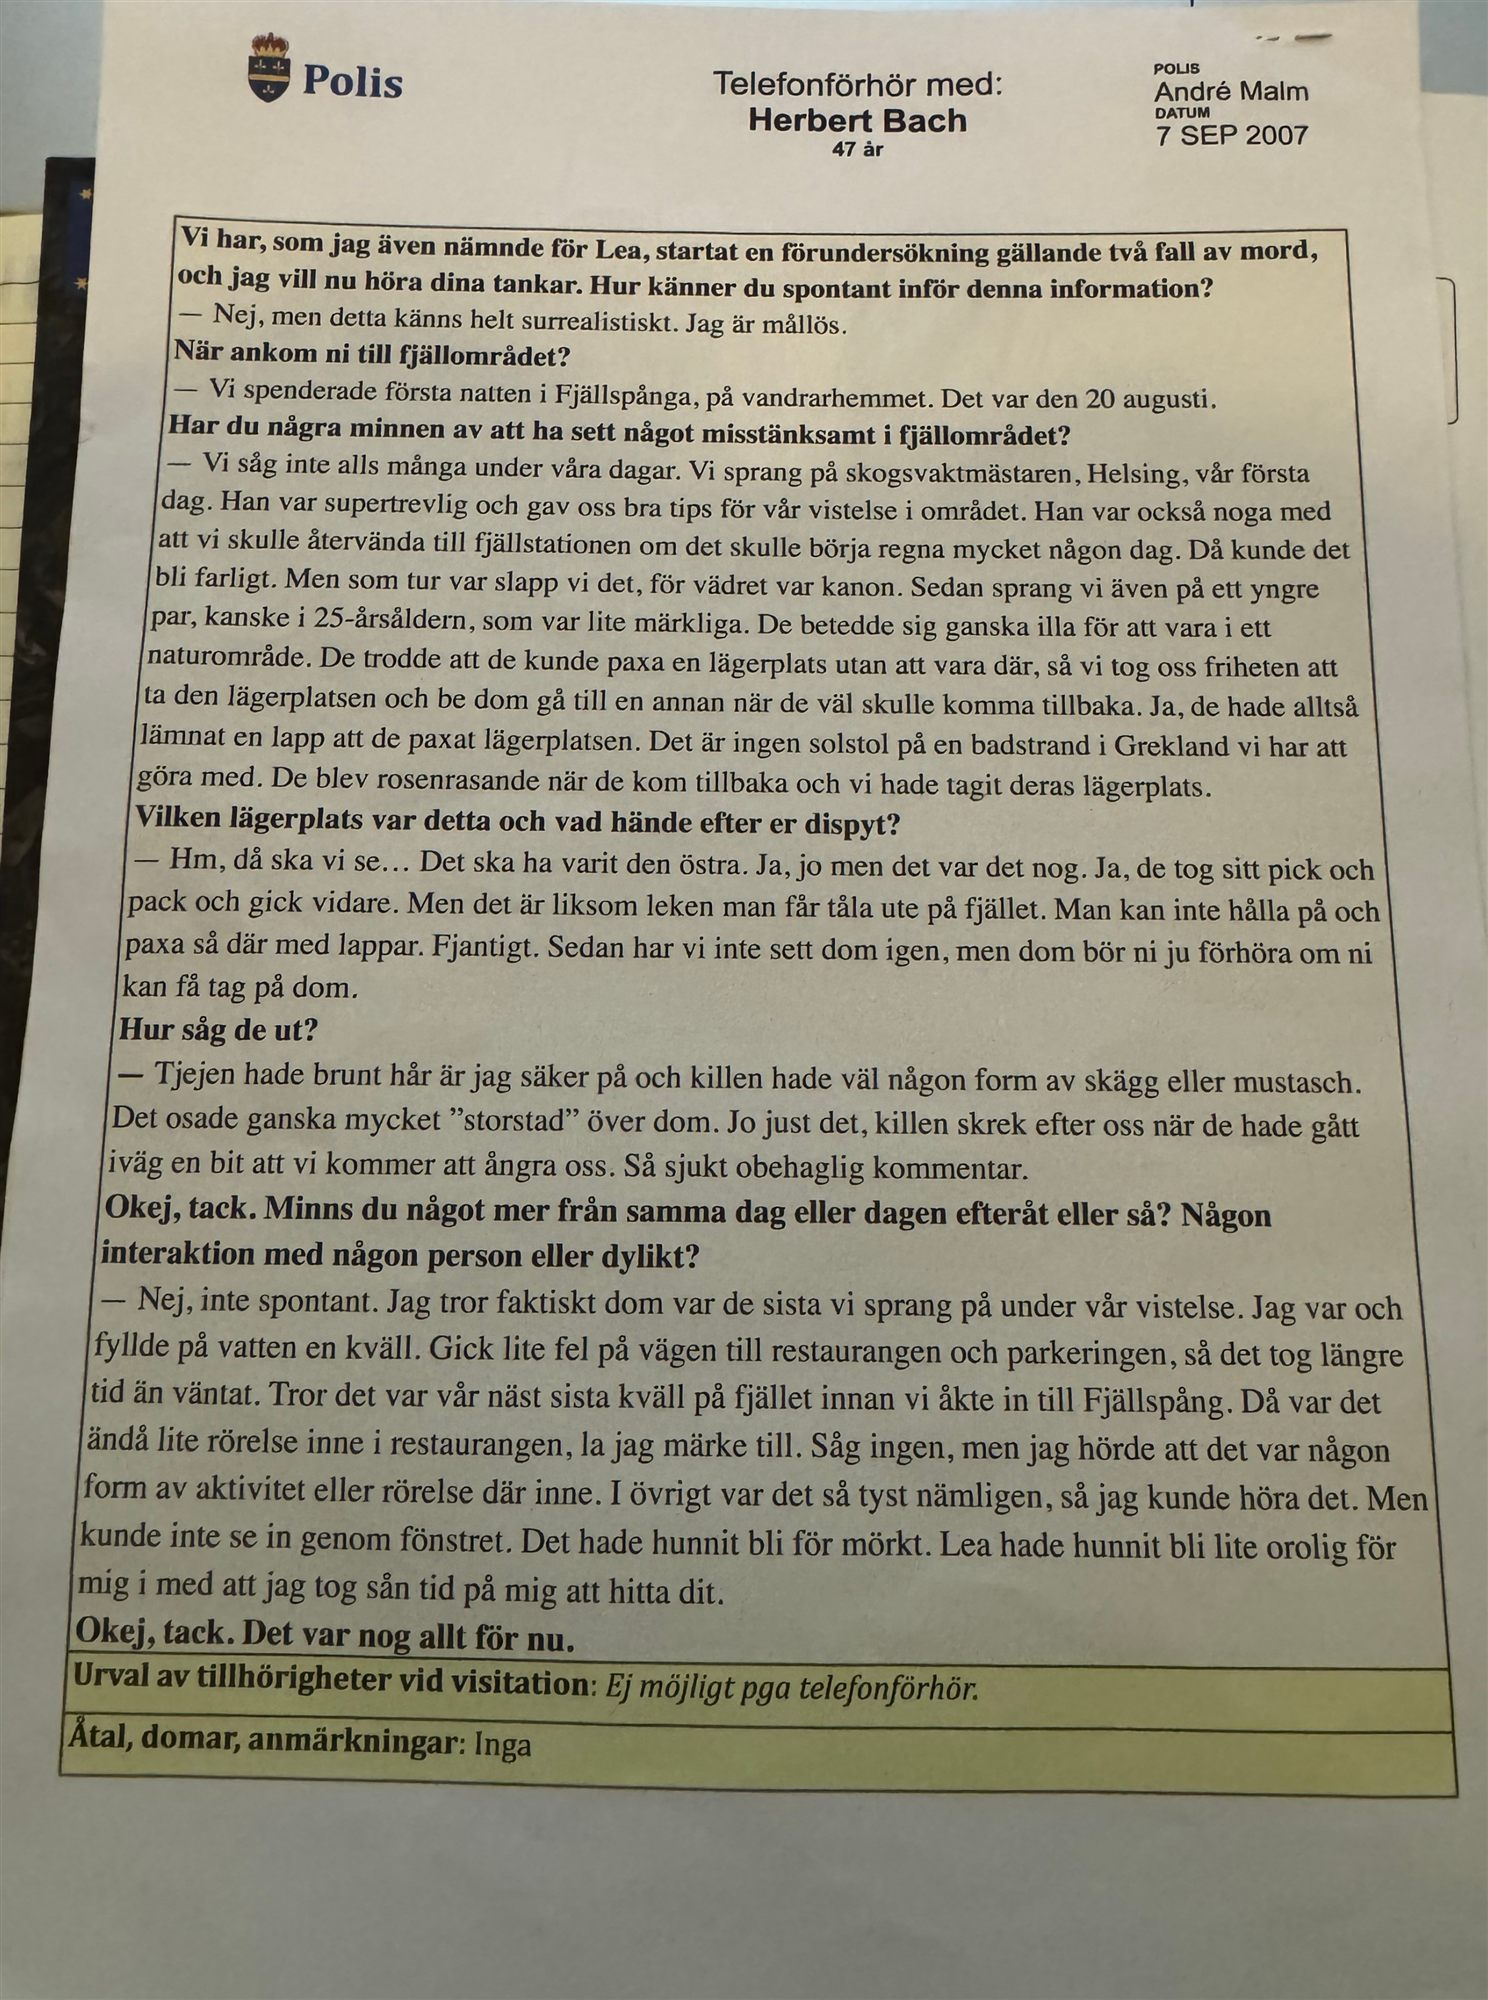
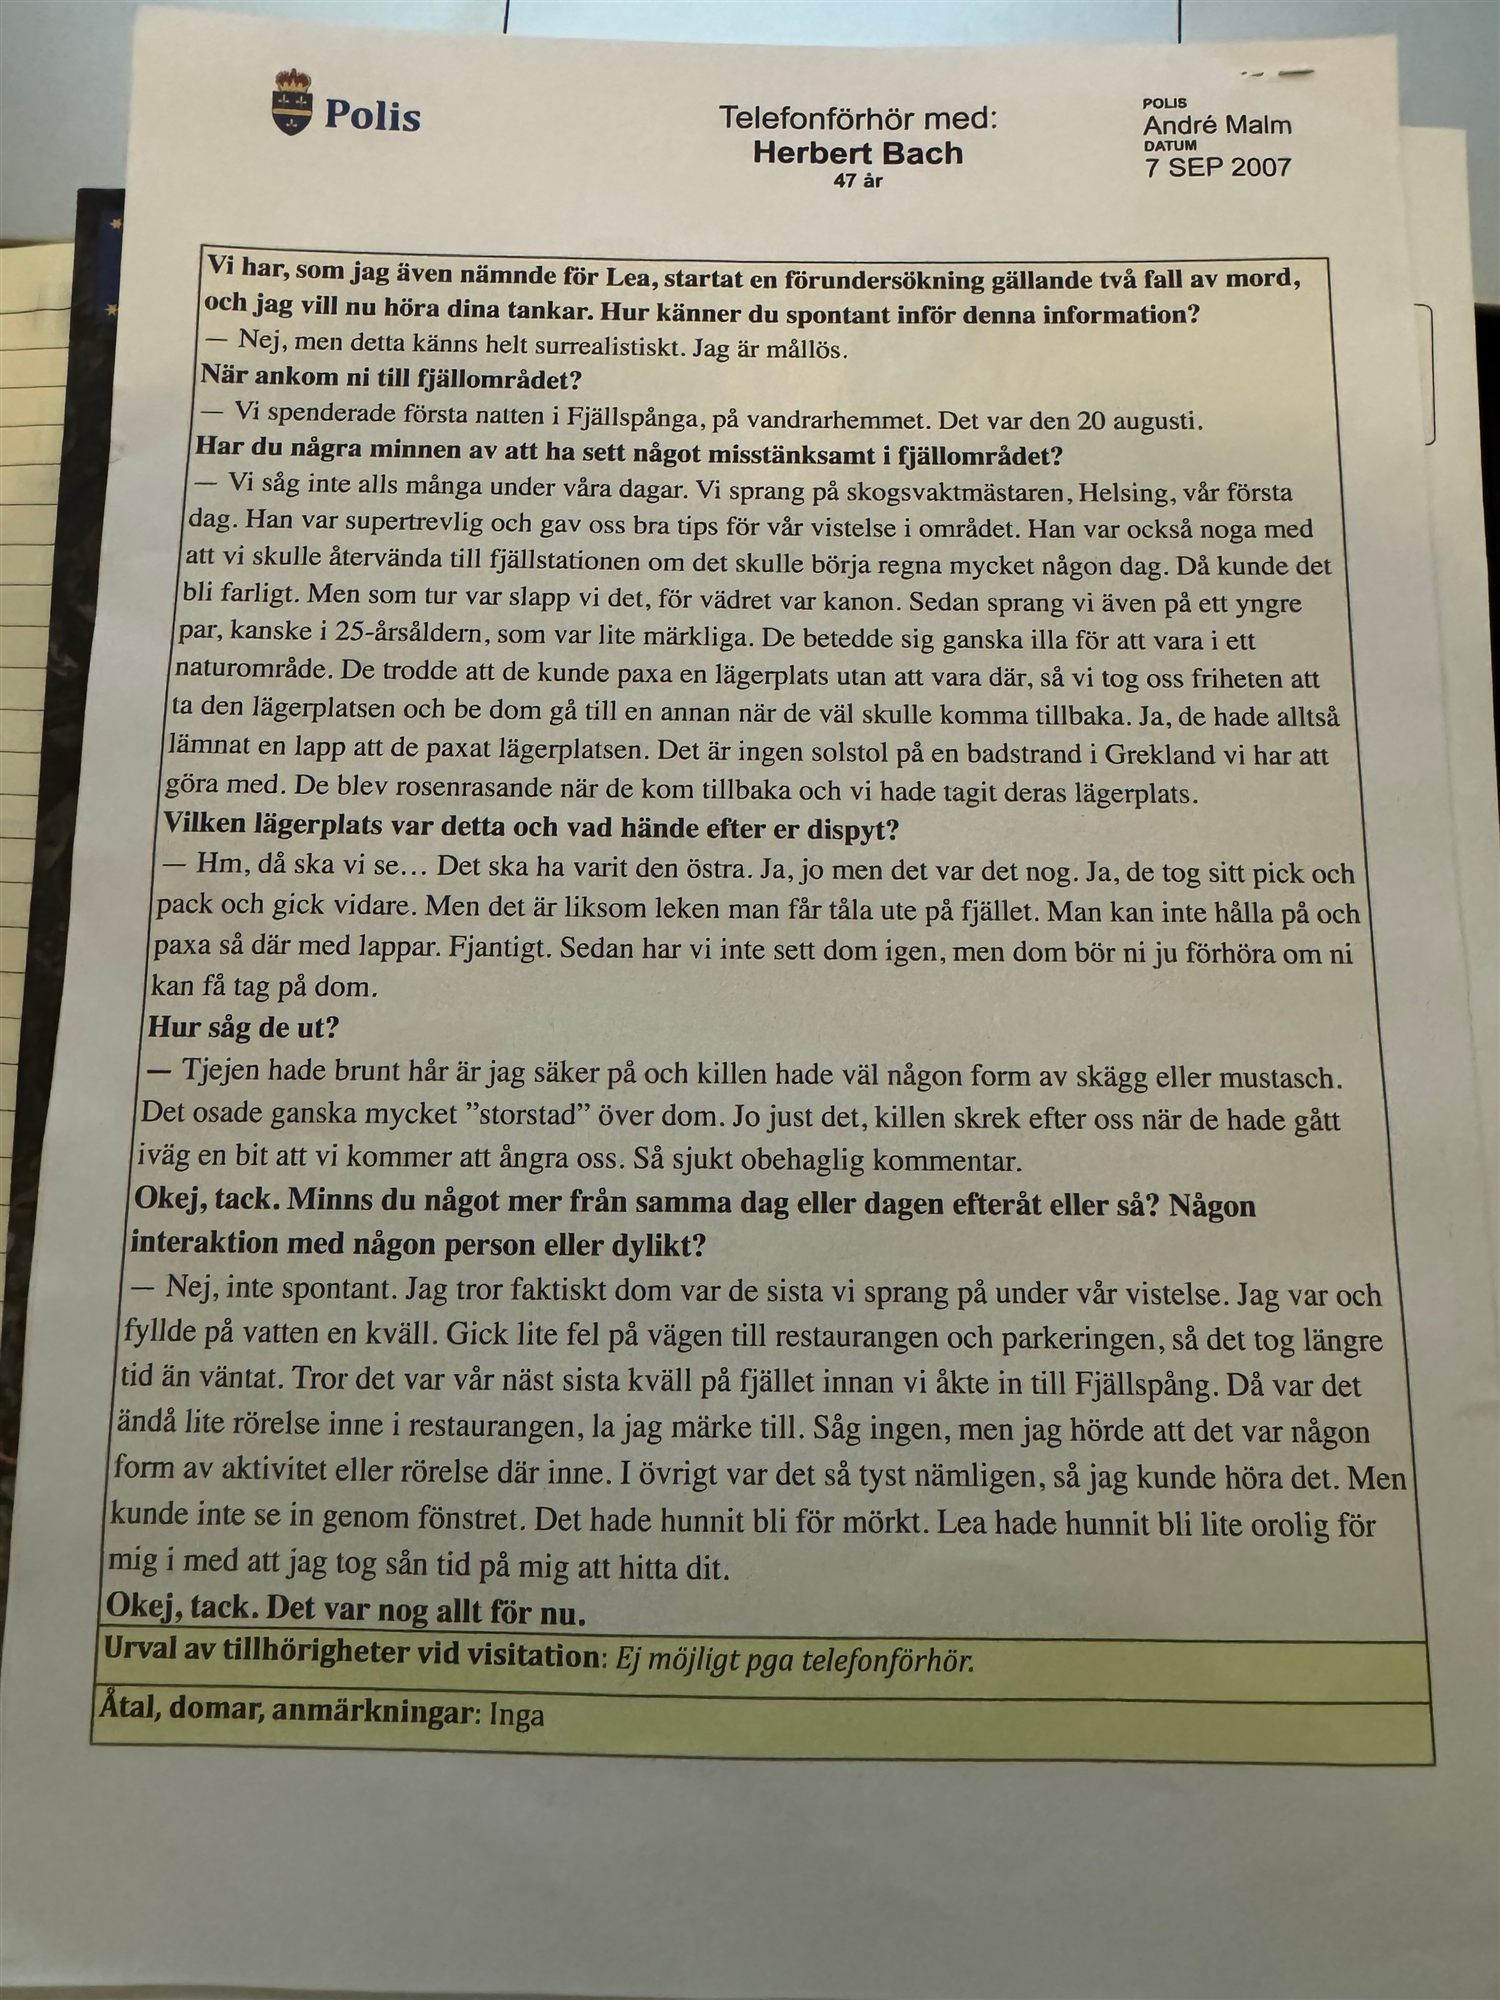
Byt till battre foton, lagg till obduktionsrapport

Changed region(s): [[0.0, 0.0, 1.0, 0.899], [0.0, 0.992, 0.4637, 1.0]]

diff --git a/tools/beskar.js b/tools/beskar.js
@@ -56,7 +56,7 @@ function morph(mask, w, h, r, doErode) {
     let v = doErode ? 1 : 0;
     for (let k = -r; k <= r; k++) {
       const xx = x + k;
-      if (xx < 0 || xx >= w) { if (doErode) { v = 0; break; } continue; }
+      if (xx < 0 || xx >= w) continue; // utanfor bilden raknas inte (annars "aeter" ramen papperet)
       if (mask[y * w + xx] === want) { v = want; break; }
     }
     tmp[y * w + x] = v;
@@ -65,11 +65,30 @@ function morph(mask, w, h, r, doErode) {
     let v = doErode ? 1 : 0;
     for (let k = -r; k <= r; k++) {
       const yy = y + k;
-      if (yy < 0 || yy >= h) { if (doErode) { v = 0; break; } continue; }
+      if (yy < 0 || yy >= h) continue;
       if (tmp[yy * w + x] === want) { v = want; break; }
     }
     out[y * w + x] = v;
   }
+  return out;
+}
+
+// Fyller alla "hal" i masken, dvs. mork yta som inte hanger ihop med bildens kant (t.ex. ett foto mitt pa en sida).
+function fillHoles(mask, w, h) {
+  const reach = new Uint8Array(w * h);
+  const stack = [];
+  const push = (p) => { if (!mask[p] && !reach[p]) { reach[p] = 1; stack.push(p); } };
+  for (let x = 0; x < w; x++) { push(x); push((h - 1) * w + x); }
+  for (let y = 0; y < h; y++) { push(y * w); push(y * w + w - 1); }
+  while (stack.length) {
+    const p = stack.pop(), x = p % w, y = (p / w) | 0;
+    if (x > 0) push(p - 1);
+    if (x < w - 1) push(p + 1);
+    if (y > 0) push(p - w);
+    if (y < h - 1) push(p + w);
+  }
+  const out = new Uint8Array(w * h);
+  for (let i = 0; i < out.length; i++) out[i] = reach[i] ? 0 : 1;
   return out;
 }
 
@@ -106,7 +125,7 @@ function detect(rgb, w, h) {
   for (let i = 0; i < mask.length; i++) mask[i] = g[i] > thr ? 1 : 0;
 
   // Texten gor hal i det vita: stang igen dem (dilation sedan erosion) innan vi tunnar ut for att skilja papper at.
-  const closed = morph(morph(mask, w, h, 9, false), w, h, 9, true);
+  const closed = fillHoles(morph(morph(mask, w, h, 9, false), w, h, 9, true), w, h);
   const R = 8;
   const eroded = morph(closed, w, h, R, true);
   const comp = largestComponent(eroded, w, h);
@@ -127,7 +146,7 @@ function detect(rgb, w, h) {
   if (!tl || !tr || !br || !bl) return null;
   const quad = [tl, tr, br, bl].map(([x, y]) => [x / w, y / h]);
   const a = polyArea(quad);
-  if (a < 0.2 || a > 0.97) return null;
+  if (a < 0.2 || a > 0.995) return null;
   return quad;
 }
 
@@ -209,7 +228,7 @@ async function main() {
 
     if (quad) {
       const full = await sharp(file).rotate().removeAlpha().raw().toBuffer({ resolveWithObject: true });
-      const use = overrides[rel] ? quad : shrink(quad, 0.015); // lite marginal bort sa att kantskuggor inte foljer med
+      const use = overrides[rel] ? quad : shrink(quad, 0.01); // lite marginal bort sa att kantskuggor inte foljer med
       const res = warp(full.data, full.info.width, full.info.height, use);
       await sharp(res.data, { raw: { width: res.width, height: res.height, channels: 3 } }).jpeg({ quality: 92 }).toFile(dest);
     } else {
